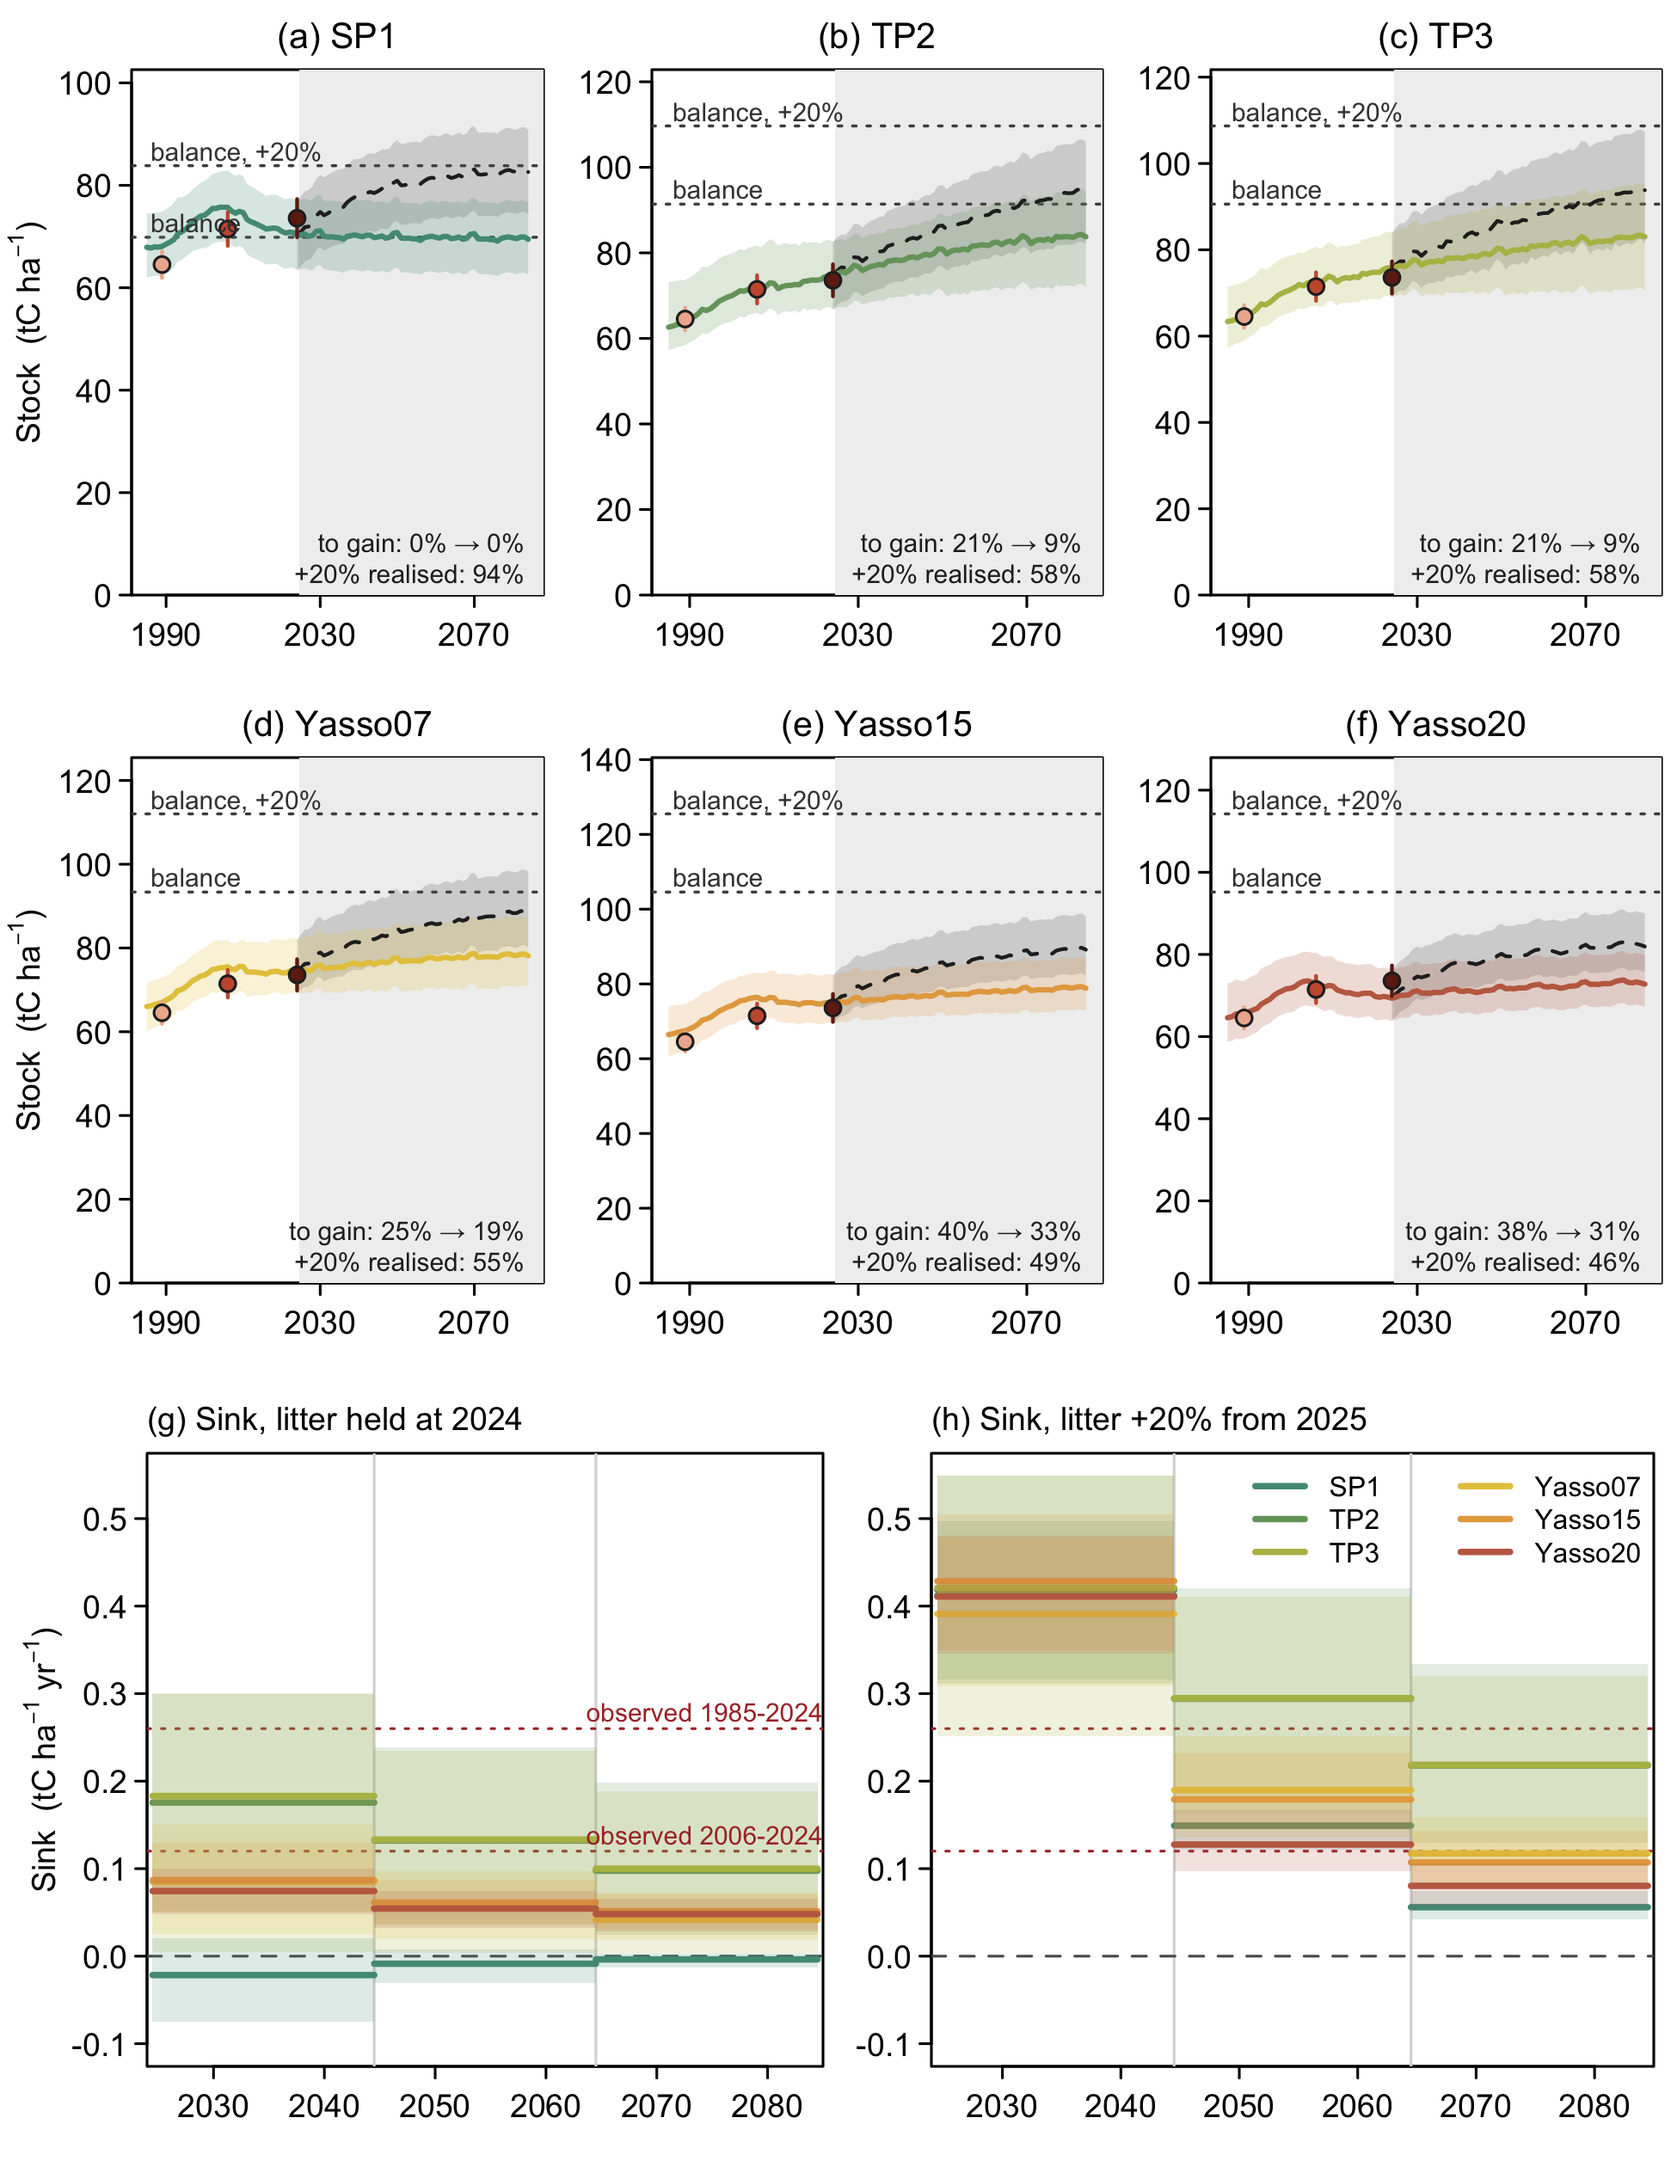
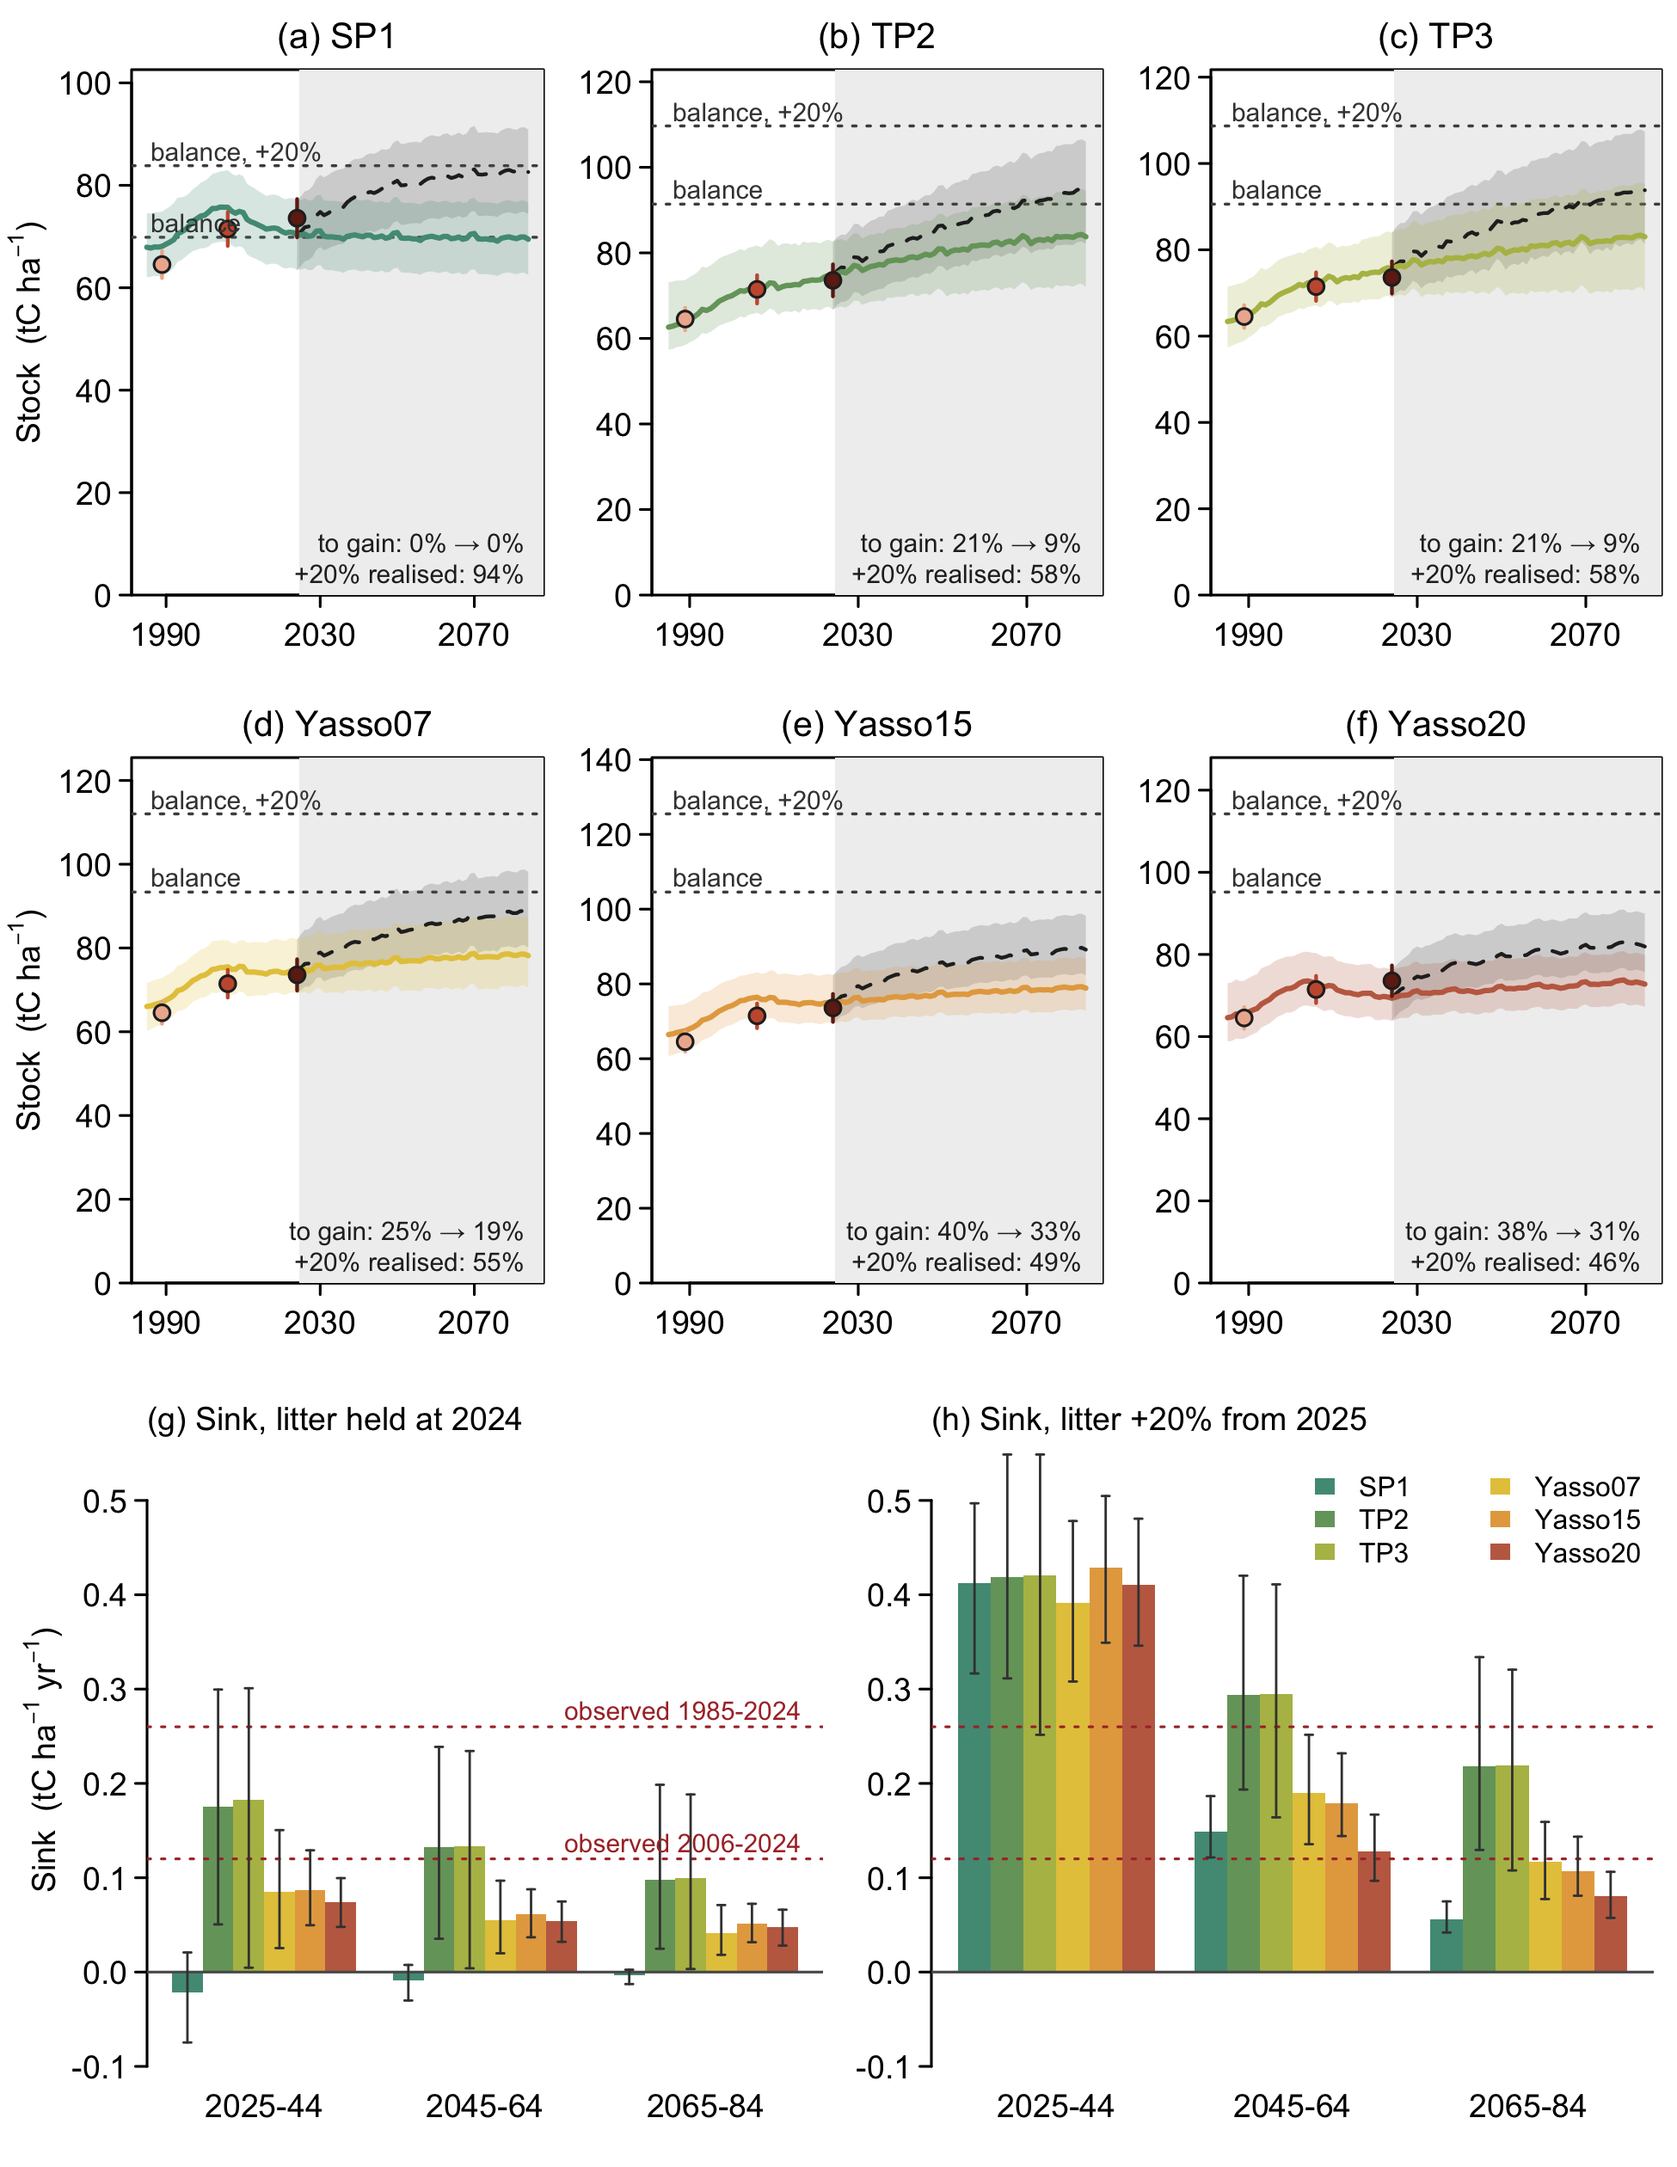
S_saturation: sink panels (g, h) as grouped bars per 20-year climate repetition

diff --git a/manuscript/HIKET_draft_v2.tex b/manuscript/HIKET_draft_v2.tex
@@ -1707,11 +1707,10 @@ balance under each input (dotted lines); points are the campaign means with $95\
 placed at the mean sampling year of each campaign. The text in each panel gives the carbon still
 to be gained before balance, in per cent of the stock in 2024 and in 2084, and the share of the
 eventual gain from the raised input that is realised by 2084. (g) The sink with the input held and
-(h) with the input raised: each horizontal step is the mean sink of one model over one repetition
-of the twenty-year climate (2025--2044, 2045--2064, 2065--2084), drawn across the years it covers;
-the steps are averages over whole repetitions, because the repeated climate alternates by decade,
-and are not joined. Shaded boxes are their $90\%$ intervals; dotted red lines are the observed
-rates. Bands and bars are $90\%$ intervals over posterior draws of the national mean;
+(h) with the input raised: each bar is the mean sink of one model over one repetition of the
+twenty-year climate (2025--2044, 2045--2064, 2065--2084), averaged over whole repetitions because
+the repeated climate alternates by decade; whiskers are $90\%$ intervals, and dotted red lines are
+the observed rates. Bands and bars are $90\%$ intervals over posterior draws of the national mean;
 plots measured in all three campaigns, unweighted. \gap{Promote?}}
 
 \section{R4: the plots}\label{supp:r4}
